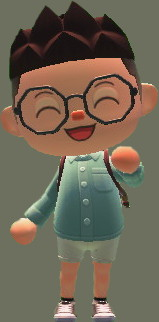
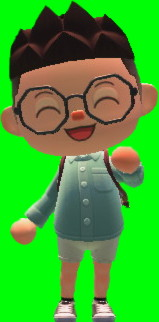
aero

diff --git a/ACP/sh.html b/ACP/sh.html
@@ -27,9 +27,9 @@
         </header>
         
         <div class="loading" id="loading_screen">loading...</div>
-        <div class="win_hidden" id="win_screen">
+        <div class="win" id="win_screen">
             <div class="resident">
-                <img class="resident_photo" src="assets/img/hunt/tony.png" width="120px;">
+                <img class="resident_photo" src="assets/img/hunt/tony1.png" width="120px;">
                 <div class="resident_speech" id="speech">Great Job! You've found and solved all my puzzles!</div>
                 <div class="resident_name">Tony</div>
             </div>
